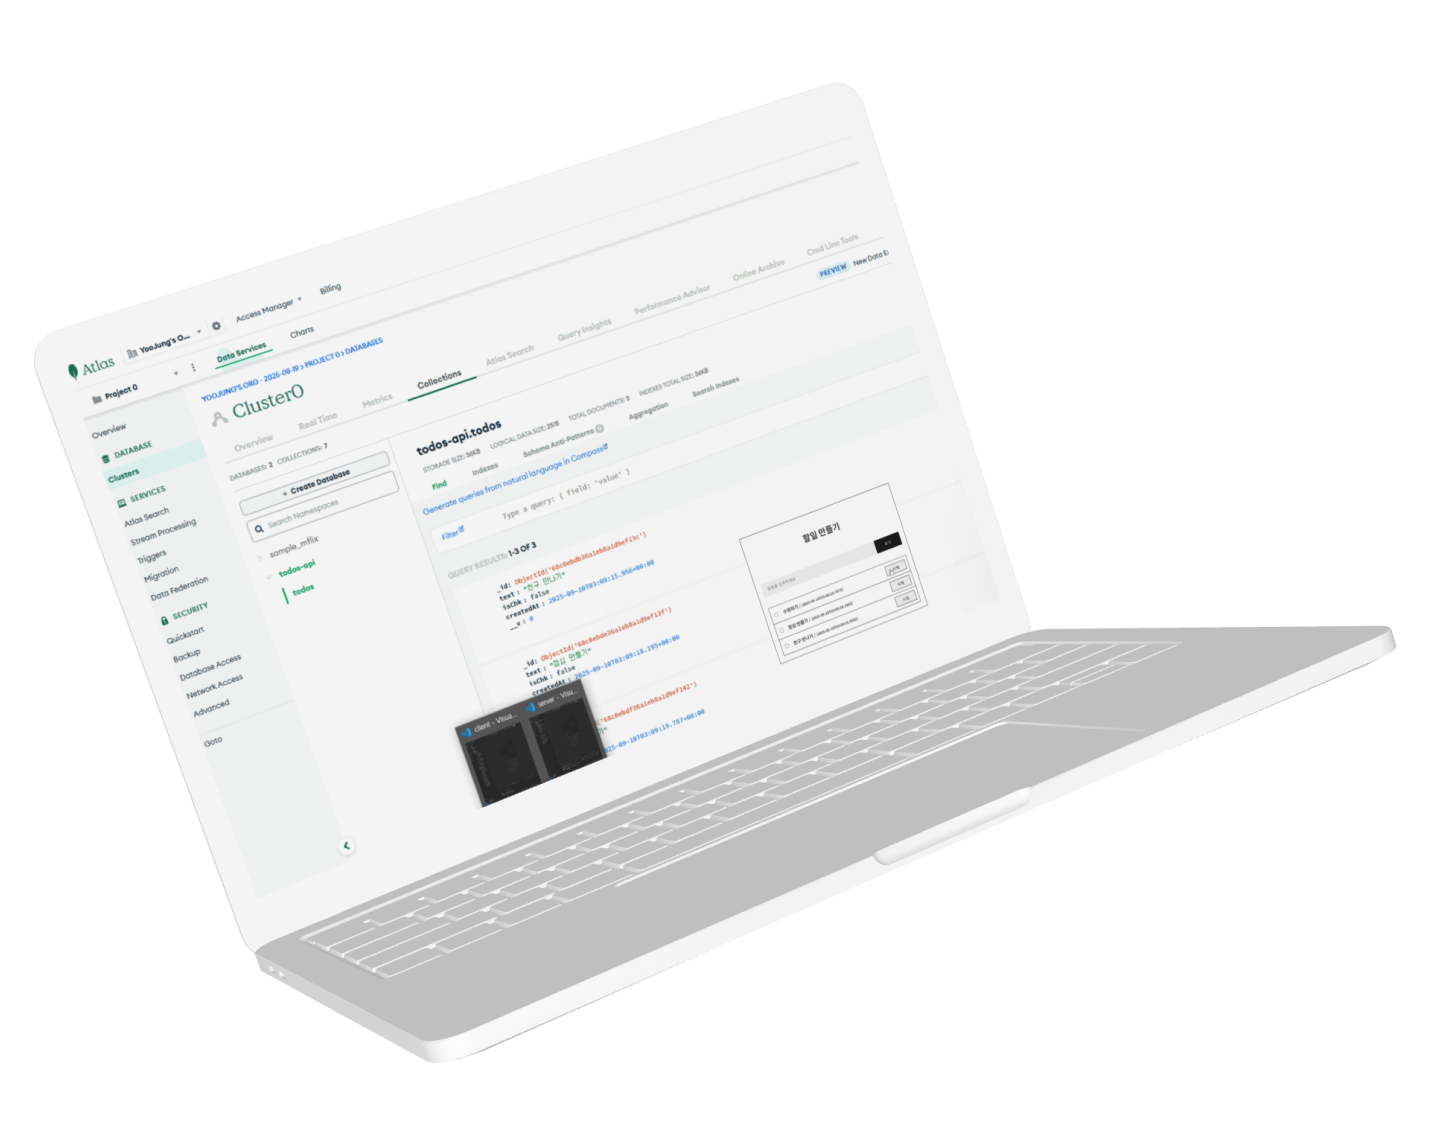
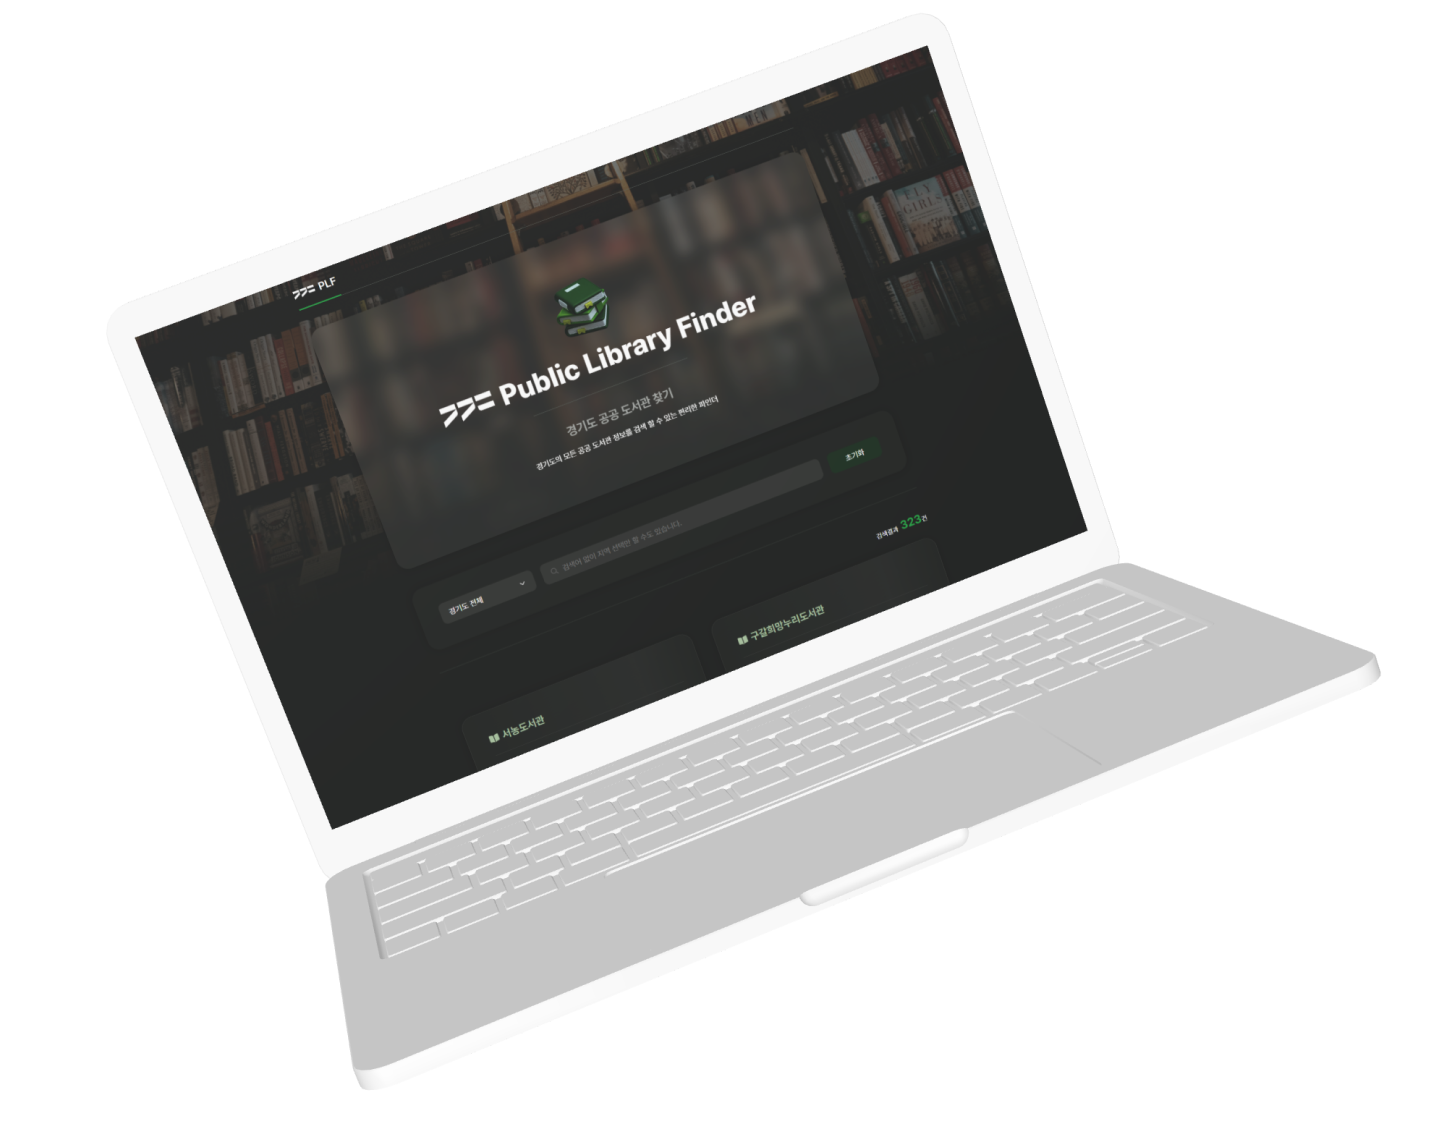
add project

diff --git a/src/assets/data/worksData.js b/src/assets/data/worksData.js
@@ -2,25 +2,31 @@ export const worksData = [
     {
         id: 1,
         ctgr: 'Personal Project',
-        title: '개인 포트폴리오',
+        title: '경기도 공공 도서관 찾기',
         subtitle: 'Personal Project',
         tag: ['personal'],
-        img: '/images/works_05.png',
+        img: '/images/works_12.png',
         skill1: 'Design',
         skill2: 'React',
         type: 'personal',
-        desc: 'React 기반의 원페이지 포트폴리오로 GSAP ScrollTrigger와 Timeline을 활용해 로딩 시퀀스, 스크롤 인터랙션, 텍스트 애니메이션 등을 구현했습니다. 전역 SCSS 구조를 설계해 일관된 스타일 시스템을 구축했으며 컴포넌트를 체계적으로 분리하여 자연스러운 화면 전환을 구성했습니다. 또한 마우스 패럴랙스 갤러리, 프로젝트 필터링, 모달 상세 보기 등 다양한 UX 기능을 포함해 디자인부터 반응형 개발까지 전 과정을 100% 수행한 개인 프로젝트입니다.',
+        desc: '공공데이터 RESTful API를 활용해 경기도 공공 도서관 정보를 조회하는 웹 애플리케이션을 구현했습니다. API 응답 데이터를 원본 상태로 관리하고, 검색어/지역 필터링/정렬/더보기 페이지네이션을 클라이언트 파생 상태로 분리해 처리했습니다. 검색 입력에는 debounce를 적용해 불필요한 렌더링을 줄이고 UX를 개선했으며, API 키를 환경변수로 관리해 코드에 직접 노출되지 않도록 했습니다. 데이터 흐름과 사용자 경험을 함께 고려한 구조 설계를 통해 실제 서비스에 가까운 REST API 활용 경험을 쌓았습니다.',
         details: {
-            structure:
-                '로딩, 히어로, 스킬, 프로젝트, 모달 등으로 구성된 원페이지',
+            structure: '히어로, 검색창, 도서관 리스트 등으로 구성된 원페이지',
             ratio: '디자인 100%, 코딩 100%',
         },
-        tags: ['Figma', 'React', 'JavaScript', 'SCSS', 'GSAP', 'Vercel'],
+        tags: [
+            'Figma',
+            'React',
+            'JavaScript',
+            'Public REST API',
+            'SCSS',
+            'Vercel',
+        ],
         links: {
-            github: 'https://github.com/danbijyj/portfolio',
-            site: 'https://jyj-portfolio.vercel.app/',
+            github: 'https://github.com/danbijyj/library',
+            site: 'https://jyj-library.vercel.app/',
         },
-        responsive: true,
+        responsive: false,
     },
     {
         id: 2,
@@ -58,6 +64,29 @@ export const worksData = [
     {
         id: 3,
         ctgr: 'Personal Project',
+        title: '개인 포트폴리오',
+        subtitle: 'Personal Project',
+        tag: ['personal'],
+        img: '/images/works_05.png',
+        skill1: 'Design',
+        skill2: 'React',
+        type: 'personal',
+        desc: 'React 기반의 원페이지 포트폴리오로 GSAP ScrollTrigger와 Timeline을 활용해 로딩 시퀀스, 스크롤 인터랙션, 텍스트 애니메이션 등을 구현했습니다. 전역 SCSS 구조를 설계해 일관된 스타일 시스템을 구축했으며 컴포넌트를 체계적으로 분리하여 자연스러운 화면 전환을 구성했습니다. 또한 마우스 패럴랙스 갤러리, 프로젝트 필터링, 모달 상세 보기 등 다양한 UX 기능을 포함해 디자인부터 반응형 개발까지 전 과정을 100% 수행한 개인 프로젝트입니다.',
+        details: {
+            structure:
+                '로딩, 히어로, 스킬, 프로젝트, 모달 등으로 구성된 원페이지',
+            ratio: '디자인 100%, 코딩 100%',
+        },
+        tags: ['Figma', 'React', 'JavaScript', 'SCSS', 'GSAP', 'Vercel'],
+        links: {
+            github: 'https://github.com/danbijyj/portfolio',
+            site: 'https://jyj-portfolio.vercel.app/',
+        },
+        responsive: true,
+    },
+    {
+        id: 4,
+        ctgr: 'Personal Project',
         title: '헤라',
         subtitle: 'Personal Project',
         tag: ['personal'],
@@ -87,7 +116,7 @@ export const worksData = [
         responsive: false,
     },
     {
-        id: 4,
+        id: 5,
         ctgr: 'Team Project',
         title: 'SoundsGoods',
         subtitle: 'Team Project',
@@ -124,7 +153,7 @@ export const worksData = [
         responsive: true,
     },
     {
-        id: 5,
+        id: 6,
         ctgr: 'Team Project',
         title: '현대식품관 투홈',
         subtitle: 'Team Project',
@@ -163,7 +192,7 @@ export const worksData = [
         responsive: true,
     },
     {
-        id: 6,
+        id: 7,
         ctgr: 'Personal Project',
         title: '서울시청',
         subtitle: 'Personal Project',
@@ -193,7 +222,7 @@ export const worksData = [
         responsive: false,
     },
     {
-        id: 7,
+        id: 8,
         ctgr: 'Personal Project',
         title: '웰컴복지재단',
         subtitle: 'Personal Project',
@@ -215,7 +244,7 @@ export const worksData = [
         responsive: false,
     },
     {
-        id: 8,
+        id: 9,
         ctgr: 'Personal Project',
         title: '아웃백스테이크하우스',
         subtitle: 'Personal Project',
@@ -248,7 +277,7 @@ export const worksData = [
         responsive: false,
     },
     {
-        id: 9,
+        id: 10,
         ctgr: 'Personal Project',
         title: '경동(클론코딩)',
         subtitle: 'Personal Project',
@@ -270,7 +299,7 @@ export const worksData = [
         responsive: false,
     },
     {
-        id: 10,
+        id: 11,
         ctgr: 'Team Project',
         title: 'SRT',
         subtitle: 'Team Project',
@@ -295,7 +324,7 @@ export const worksData = [
         responsive: false,
     },
     {
-        id: 11,
+        id: 12,
         ctgr: 'Personal Project',
         title: 'Express-Redux',
         subtitle: 'Personal Project',
